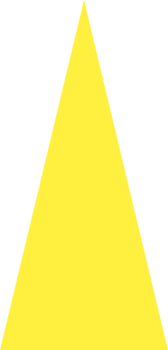
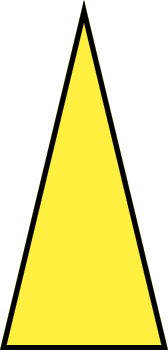
enlarging bearing arrows on map

Changed region(s): [[0.0, 0.0, 1.0, 1.0]]

diff --git a/web/js/viz/ic_timeseries_map.js b/web/js/viz/ic_timeseries_map.js
@@ -20,7 +20,7 @@ app.InformaCamJ3MTimeseriesMapView = Backbone.View.extend({
 		this.zoomBearingIcon = L.icon({
 			iconUrl: '/web/images/ic_map_icon_bearing.png',
 			iconRetinaUrl: '/web/images/ic_map_icon_bearing.png',
-			iconSize: [6, 8]
+			iconSize: [9, 12]
 		});
 	},
 	render: function() {
